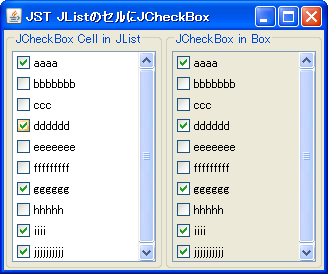
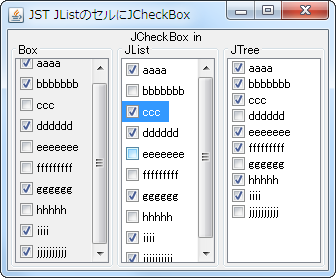
Add JTree example

diff --git a/CheckBoxCellList/src/java/example/MainPanel.java b/CheckBoxCellList/src/java/example/MainPanel.java
@@ -6,14 +6,19 @@ import java.awt.*;
 import java.awt.event.*;
 import java.util.*;
 import javax.swing.*;
+import javax.swing.event.*;
+import javax.swing.tree.*;
 
 public class MainPanel extends JPanel {
     @SuppressWarnings("unchecked")
     public MainPanel() {
-        super(new GridLayout(1,2));
+        super(new BorderLayout());
+
+        JPanel p = new JPanel(new GridLayout(1,3));
+        Box list1 = Box.createVerticalBox();
 
         DefaultListModel model = new DefaultListModel();
-        JList list1 = new JList(model) {
+        JList list2 = new JList(model) {
             private CheckBoxCellRenderer renderer;
             @Override public void updateUI() {
                 setForeground(null);
@@ -58,19 +63,30 @@ public class MainPanel extends JPanel {
                 }
             }
         };
-        list1.putClientProperty("List.isFileList", Boolean.TRUE);
+        list2.putClientProperty("List.isFileList", Boolean.TRUE);
 
-        Box list2 = Box.createVerticalBox();
+        DefaultMutableTreeNode root = new DefaultMutableTreeNode("JTree");
+        JTree list3 = new JTree();
+        list3.setEditable(true);
+        list3.setRootVisible(false);
+        list3.setCellRenderer(new CheckBoxNodeRenderer());
+        list3.setCellEditor(new CheckBoxNodeEditor(list3));
 
         for(String title: Arrays.asList(
                 "aaaa", "bbbbbbb", "ccc", "dddddd", "eeeeeee",
                 "fffffffff", "gggggg", "hhhhh", "iiii", "jjjjjjjjjj")) {
             boolean flag = title.length()%2==0;
+            addComp(list1, new JCheckBox(title, flag));
             model.addElement(new CheckBoxNode(title, flag));
-            addComp(list2, new JCheckBox(title, flag));
+            root.add(new DefaultMutableTreeNode(new CheckBoxNode(title, flag)));
         }
-        add(makeTitledPanel("JCheckBox Cell in JList", list1));
-        add(makeTitledPanel("JCheckBox in Box",        list2));
+        list3.setModel(new DefaultTreeModel(root));
+        p.add(makeTitledPanel("Box",   list1));
+        p.add(makeTitledPanel("JList", list2));
+        p.add(makeTitledPanel("JTree", list3));
+
+        add(new JLabel("JCheckBox in ", SwingConstants.CENTER), BorderLayout.NORTH);
+        add(p);
         setPreferredSize(new Dimension(320, 240));
     }
     private static JComponent makeTitledPanel(String title, JComponent tree) {
@@ -172,5 +188,108 @@ class CheckBoxNode {
     }
     @Override public String toString() {
         return text;
+    }
+}
+
+class CheckBoxNodeRenderer extends JCheckBox implements TreeCellRenderer{
+    private TreeCellRenderer renderer = new DefaultTreeCellRenderer();
+    @Override public Component getTreeCellRendererComponent(
+        JTree tree, Object value, boolean selected, boolean expanded,
+        boolean leaf, int row, boolean hasFocus) {
+        if(leaf && value != null && value instanceof DefaultMutableTreeNode) {
+            this.setOpaque(false);
+            Object userObject = ((DefaultMutableTreeNode)value).getUserObject();
+            if(userObject!=null && userObject instanceof CheckBoxNode) {
+                CheckBoxNode node = (CheckBoxNode)userObject;
+                this.setText(node.text);
+                this.setSelected(node.selected);
+            }
+            return this;
+        }
+        return renderer.getTreeCellRendererComponent(
+            tree, value, selected, expanded, leaf, row, hasFocus);
+    }
+}
+
+class CheckBoxNodeEditor extends JCheckBox implements TreeCellEditor{
+    private final JTree tree;
+    public CheckBoxNodeEditor(JTree tree) {
+        super();
+        this.tree = tree;
+        setOpaque(false);
+        setFocusable(false);
+        addActionListener(new ActionListener() {
+            @Override public void actionPerformed(ActionEvent e) {
+                stopCellEditing();
+            }
+        });
+    }
+    @Override public Component getTreeCellEditorComponent(
+        JTree tree, Object value, boolean isSelected, boolean expanded,
+        boolean leaf, int row) {
+        if(leaf && value != null && value instanceof DefaultMutableTreeNode) {
+            Object userObject = ((DefaultMutableTreeNode)value).getUserObject();
+            if(userObject!=null && userObject instanceof CheckBoxNode) {
+                this.setSelected(((CheckBoxNode)userObject).selected);
+            } else {
+                this.setSelected(false);
+            }
+            this.setText(value.toString());
+        }
+        return this;
+    }
+    @Override public Object getCellEditorValue() {
+        return new CheckBoxNode(getText(), isSelected());
+    }
+    @Override public boolean isCellEditable(EventObject e) {
+        return (e != null && e instanceof MouseEvent);
+    }
+    //Copid from AbstractCellEditor
+    //protected EventListenerList listenerList = new EventListenerList();
+    //transient protected ChangeEvent changeEvent = null;
+    @Override public boolean shouldSelectCell(java.util.EventObject anEvent) {
+        return true;
+    }
+    @Override public boolean stopCellEditing() {
+        fireEditingStopped();
+        return true;
+    }
+    @Override public void  cancelCellEditing() {
+        fireEditingCanceled();
+    }
+    @Override public void addCellEditorListener(CellEditorListener l) {
+        listenerList.add(CellEditorListener.class, l);
+    }
+    @Override public void removeCellEditorListener(CellEditorListener l) {
+        listenerList.remove(CellEditorListener.class, l);
+    }
+    public CellEditorListener[] getCellEditorListeners() {
+        return listenerList.getListeners(CellEditorListener.class);
+    }
+    protected void fireEditingStopped() {
+        // Guaranteed to return a non-null array
+        Object[] listeners = listenerList.getListenerList();
+        // Process the listeners last to first, notifying
+        // those that are interested in this event
+        for(int i = listeners.length-2; i>=0; i-=2) {
+            if(listeners[i]==CellEditorListener.class) {
+                // Lazily create the event:
+                if(changeEvent == null) changeEvent = new ChangeEvent(this);
+                ((CellEditorListener)listeners[i+1]).editingStopped(changeEvent);
+            }
+        }
+    }
+    protected void fireEditingCanceled() {
+        // Guaranteed to return a non-null array
+        Object[] listeners = listenerList.getListenerList();
+        // Process the listeners last to first, notifying
+        // those that are interested in this event
+        for(int i = listeners.length-2; i>=0; i-=2) {
+            if(listeners[i]==CellEditorListener.class) {
+                // Lazily create the event:
+                if(changeEvent == null) changeEvent = new ChangeEvent(this);
+                ((CellEditorListener)listeners[i+1]).editingCanceled(changeEvent);
+            }
+        }
     }
 }
